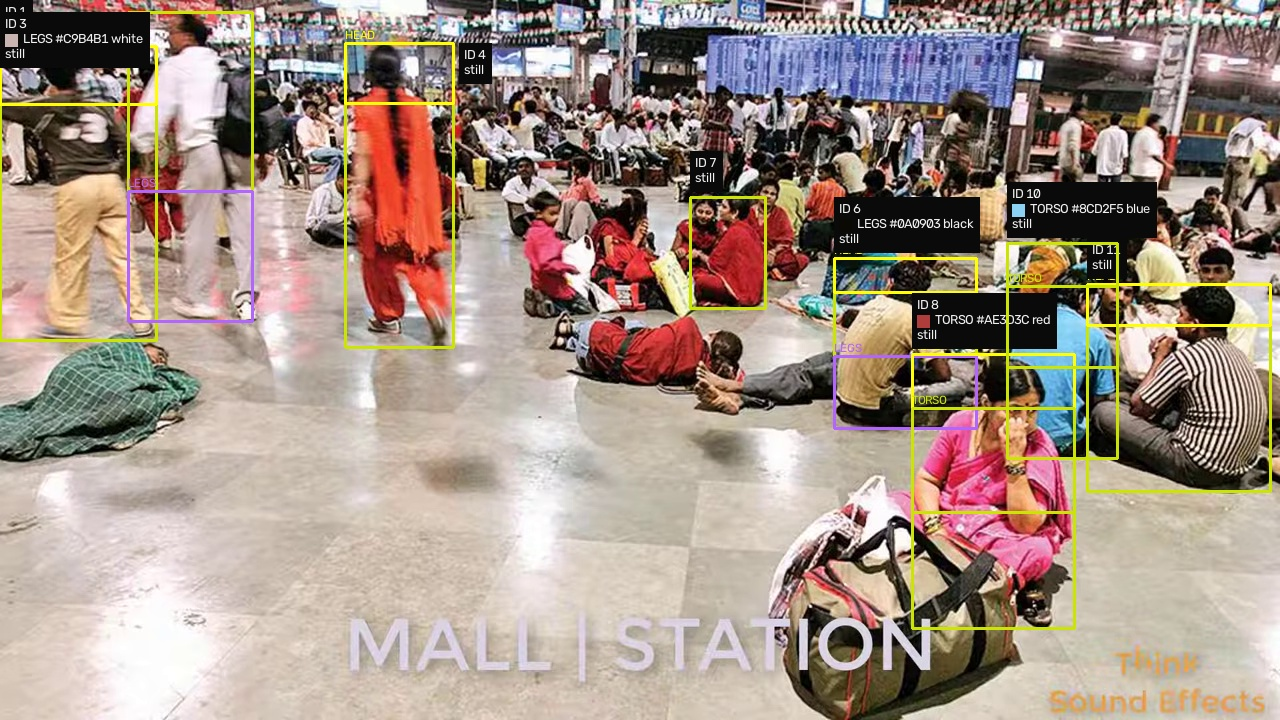
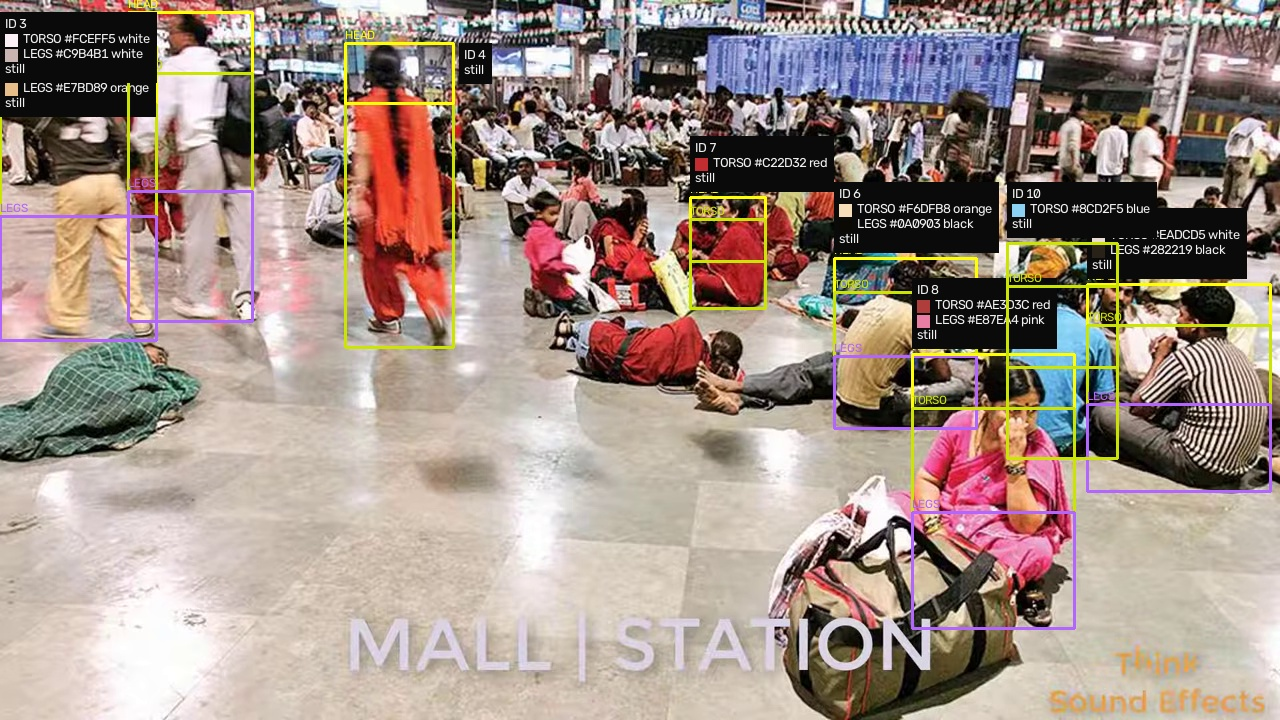
feat: gate 0.30, compact small-box rule, true-color verified shots

diff --git a/raksha/vision/overlay.py b/raksha/vision/overlay.py
@@ -26,6 +26,10 @@ def draw_person(frame, det, trail, parts, zone_line, compact=False):
     cv2.rectangle(frame, (x1, y1), (x2, y2), BOX, 2)
     for i in range(1, len(trail)):
         cv2.line(frame, trail[i - 1], trail[i], (255, 59, 92), 2)
+    if y2 - y1 < (130 if compact else 60) or det["id"] is None:
+        cv2.putText(frame, str(det["id"]), (x1, max(0, y1 - 6)),
+                    FONT, 0.55, BOX, 2, cv2.LINE_AA)
+        return
     H, W = frame.shape[:2]
     for pname, p in parts.items():
         bx1, by1, bx2, by2 = [int(v) for v in p["box"]]
@@ -85,13 +89,14 @@ def draw_panel(frame, x, y, lines, scale=0.45, side="right"):
 
 
 def draw_track(frame, det, trail, extra_lines=None, box_color=None, full_panel_h=90, compact=False):
-    """Vehicle/simple path: colored box plus small dark panel."""
+    """Vehicle/simple path: colored box plus small dark panel.
+    In compact (crowded) mode, boxes under 130px get an ID tag only."""
     x1, y1, x2, y2 = [int(v) for v in det["xyxy"]]
     color = box_color or (BOX_VEH if det.get("cls", 0) != 0 else BOX)
     cv2.rectangle(frame, (x1, y1), (x2, y2), color, 2)
     for i in range(1, len(trail)):
         cv2.line(frame, trail[i - 1], trail[i], (255, 59, 92), 2)
-    if y2 - y1 < full_panel_h or det["id"] is None:
+    if y2 - y1 < (130 if compact else full_panel_h) or det["id"] is None:
         cv2.putText(frame, str(det["id"]), (x1, max(0, y1 - 6)),
                     FONT, 0.55, color, 2, cv2.LINE_AA)
         return

diff --git a/raksha/vision/attributes.py b/raksha/vision/attributes.py
@@ -62,7 +62,8 @@ def _skin_mask(bgr_crop):
 
 
 def measure_color(bgr_crop):
-    """Dominant clothing color of a part crop. Returns (bgr, name, hex) or None."""
+    """Dominant clothing color of a part crop.
+    Returns (bgr, name, hex, conf) or None. Low-consensus names carry ~ prefix."""
     h, w = bgr_crop.shape[:2]
     if h < 8 or w < 8:
         return None
@@ -105,8 +106,13 @@ def measure_color(bgr_crop):
                 break
         if best is None:
             return None
-    if best_frac < 0.45:
-        return None  # no dominant clothing color; honest unknown beats wrong guess
+    if best_frac < 0.30:
+        return None  # hopeless blend; skip rather than guess
+    bgr, nm, hx = _finish(best, lab, d)
+    return bgr, nm, hx, round(best_frac, 2)
+
+
+def _finish(best, lab, d):
     sel = lab[d == best]
     # IQR-clean per channel, then median (outlier-proof representative)
     clean = []
@@ -143,8 +149,8 @@ def parts_info(frame, xyxy):
         m = measure_color(frame[y1:y2, x1:x2])
         if m is None:
             continue
-        bgr, nm, hx = m
-        out[name] = {"box": (x1, y1, x2, y2), "bgr": bgr, "name": nm, "hex": hx}
+        bgr, nm, hx, conf = m
+        out[name] = {"box": (x1, y1, x2, y2), "bgr": bgr, "name": nm, "hex": hx, "conf": conf}
     return out
 
 
